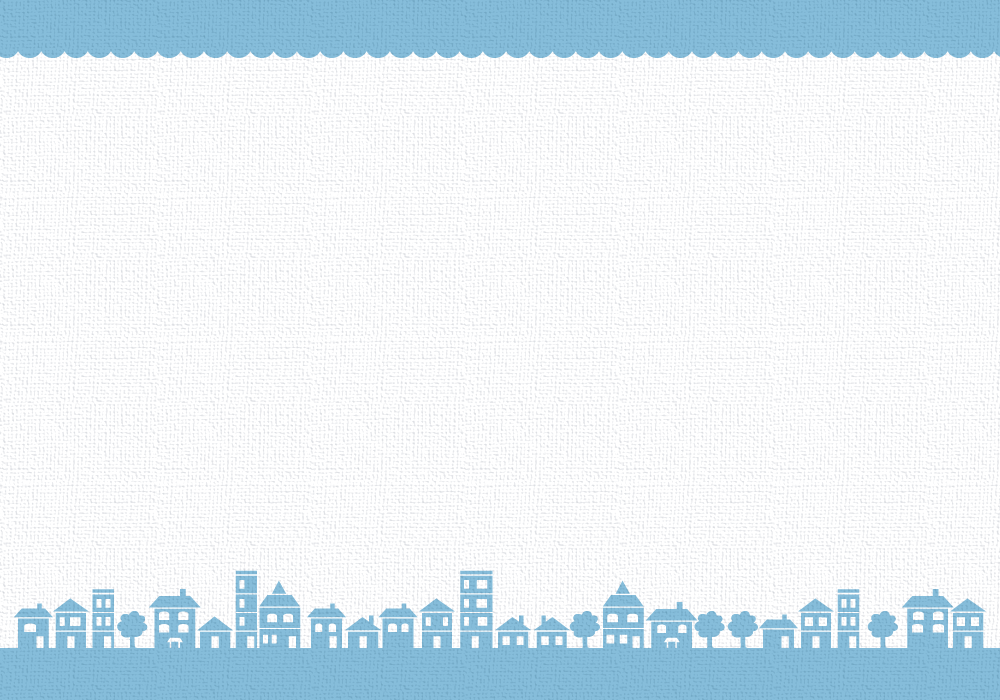
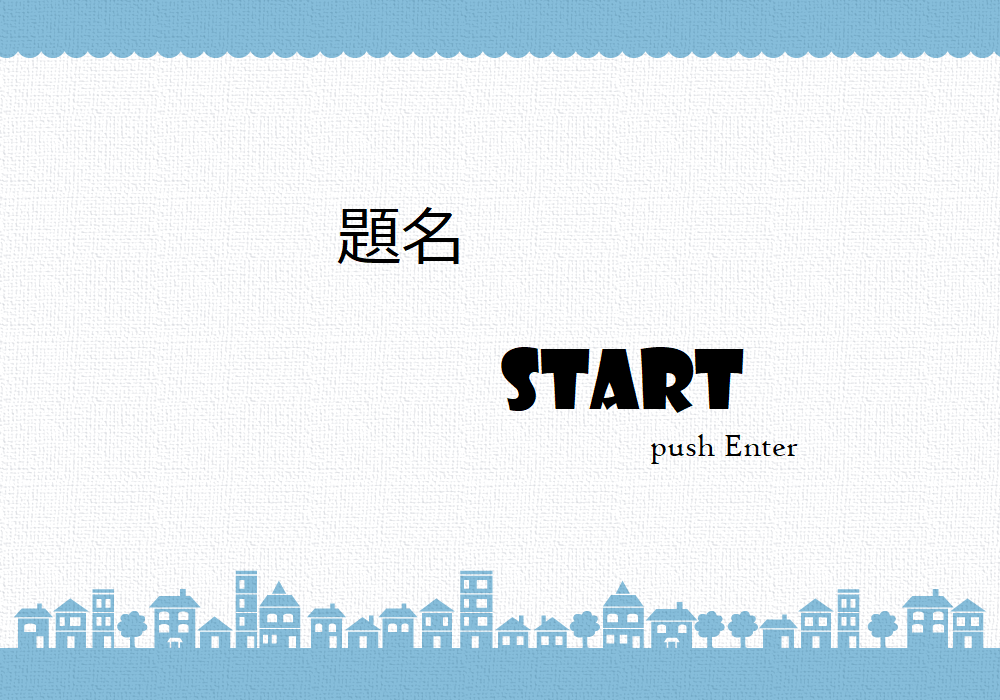
(Dがスタート画面編集)

Changed region(s): [[0.496, 0.48, 0.744, 0.6], [0.341, 0.3, 0.465, 0.39], [0.651, 0.63, 0.806, 0.66]]

diff --git a/game1/MyWorld.java b/game1/MyWorld.java
@@ -22,7 +22,7 @@ public class MyWorld extends World
     }
     public void act()
     {
-       if( Greenfoot.isKeyDown( "a" ) ){
+       if( Greenfoot.isKeyDown( "enter" ) ){
         World game = new a();
         Greenfoot.setWorld( game );
     }
